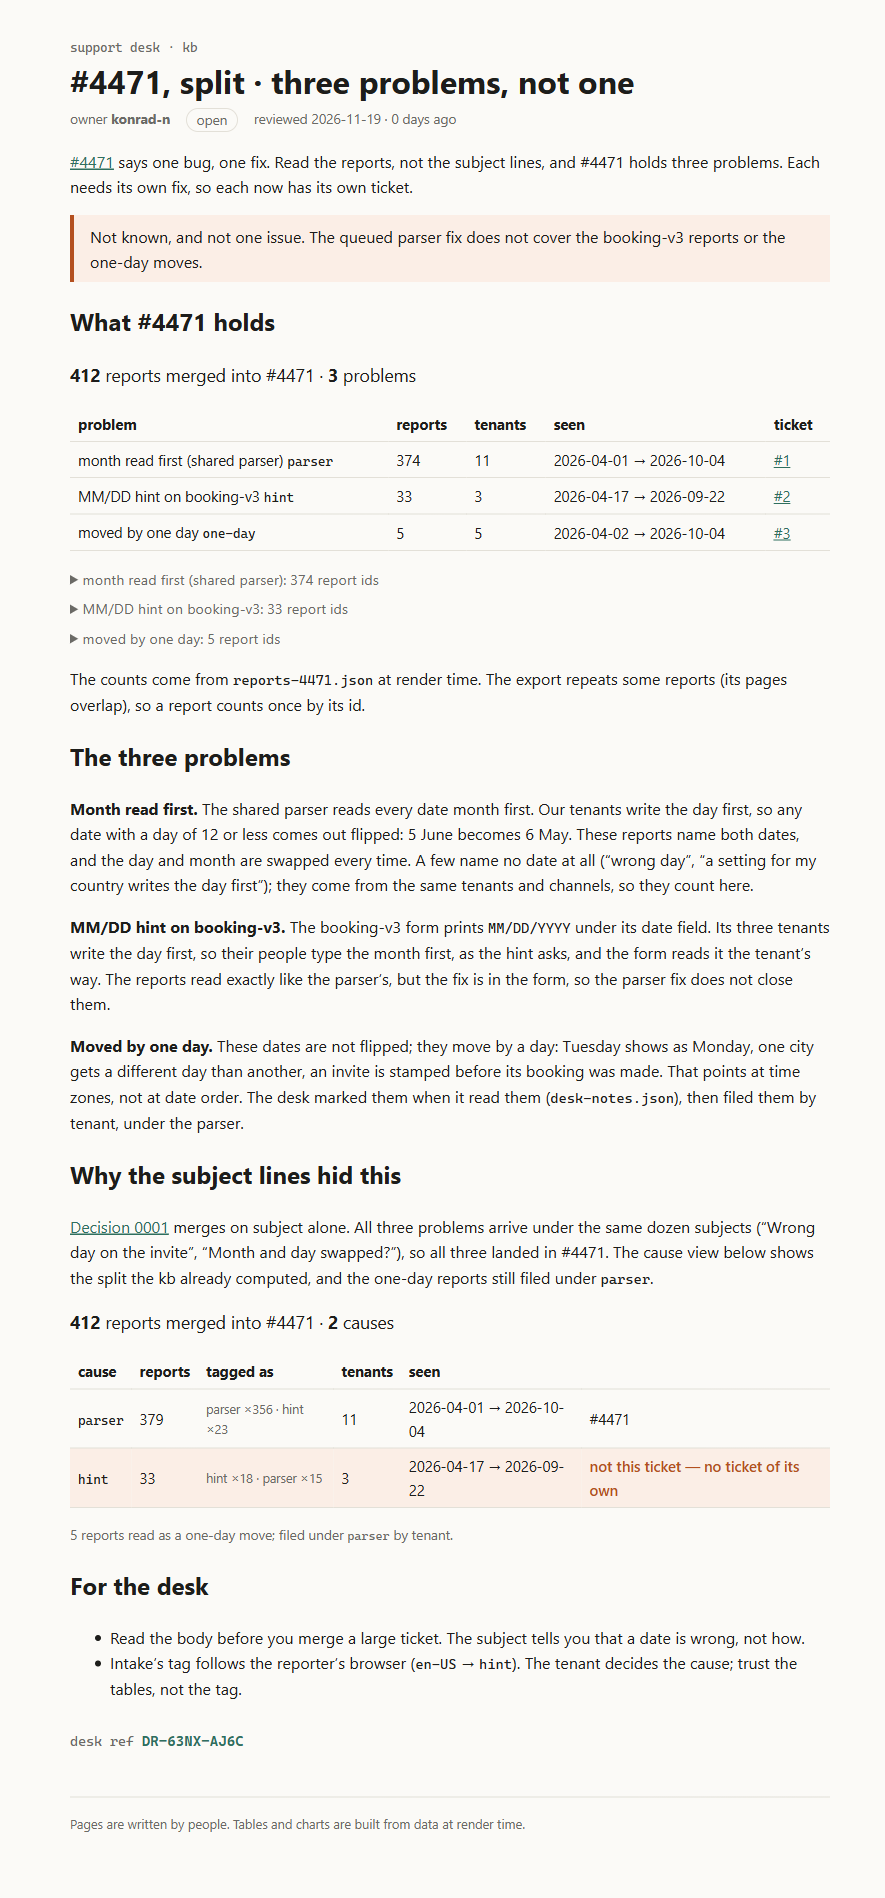
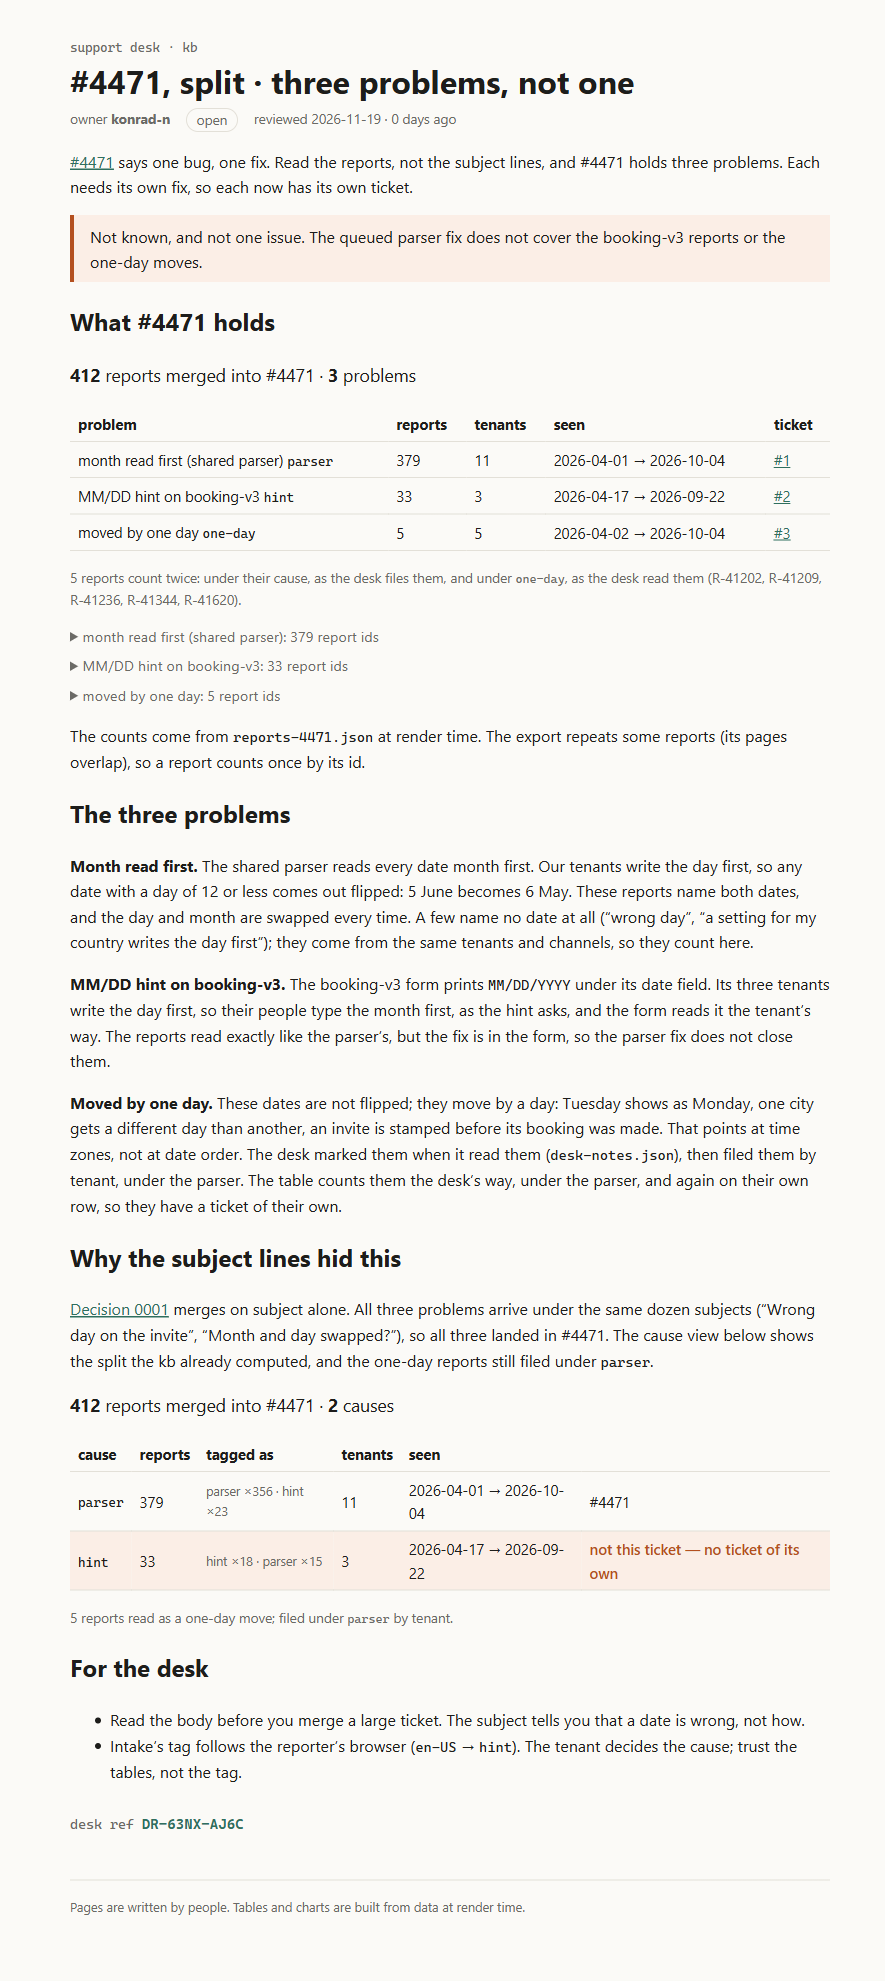
Count the #4471 split the desk's way: parser 379, one-day 5 also listed

diff --git a/rendered/kb/incidents/4471-split/index.html b/rendered/kb/incidents/4471-split/index.html
@@ -33,14 +33,15 @@
   aside.svelte-hdh0t2 { border-left: 4px solid var(--accent); padding: 0.5rem 1rem; margin: 1rem 0; background: var(--note-bg); }
   aside.warn.svelte-hdh0t2 { border-color: var(--warn); background: var(--warn-bg); }
 
[1 lines of base64/hex data omitted]
-  .sum.svelte-1swmch { font-size: 1.1rem; }
-  .none.svelte-1swmch { color: var(--warn); font-weight: 600; }
-  details.svelte-1swmch { margin: 0.4rem 0; }
-  summary.svelte-1swmch { cursor: pointer; color: var(--muted); font-size: 0.9rem; }
-  .ids.svelte-1swmch { font: 0.8rem/1.5 var(--mono); color: var(--muted); word-spacing: 0.3em; }
[1 lines of base64/hex data omitted]
+  .sum.svelte-2e3mxz { font-size: 1.1rem; }
+  .none.svelte-2e3mxz { color: var(--warn); font-weight: 600; }
+  .note.svelte-2e3mxz { color: var(--muted); font-size: 0.85em; }
+  details.svelte-2e3mxz { margin: 0.4rem 0; }
+  summary.svelte-2e3mxz { cursor: pointer; color: var(--muted); font-size: 0.9rem; }
+  .ids.svelte-2e3mxz { font: 0.8rem/1.5 var(--mono); color: var(--muted); word-spacing: 0.3em; }
 
[2 lines of base64/hex data omitted]
   .sum.svelte-5f1c7s { font-size: 1.1rem; }
   .tags.svelte-5f1c7s { color: var(--muted); font-size: 0.85em; }
   .note.svelte-5f1c7s { color: var(--muted); font-size: 0.85em; }
@@ -57,7 +58,7 @@
 <body>
 <!--[--><div class="kb svelte-60g32v"><header><a class="crumb svelte-60g32v" href="/kb">support desk · kb</a> <h1 class="svelte-60g32v">#4471, split · three problems, not one</h1> <p class="meta svelte-60g32v"><span>owner <b>konrad-n</b></span> <span class="status open svelte-60g32v">open</span> <span class="svelte-60g32v">reviewed 2026-11-19 · 0 days ago</span></p></header> <!--[!--><!--]--> <main><p><a href="/kb/incidents/4471">#4471</a> says one bug, one fix. Read the reports, not the subject lines, and
 #4471 holds three problems. Each needs its own fix, so each now has its own ticket.</p> <aside class="warn svelte-hdh0t2"><!---->Not known, and not one issue. The queued parser fix does not cover the booking-v3 reports or
-the one-day moves.<!----></aside><!----> <h2>What #4471 holds</h2> <p class="sum svelte-1swmch"><strong>412</strong> reports merged into #4471 · <strong>3</strong> problems</p> <table><thead><tr><th>problem</th><th>reports</th><th>tenants</th><th>seen</th><th>ticket</th></tr></thead><tbody><!--[--><tr><td>month read first (shared parser) <code>parser</code></td><td>374</td><td>11</td><td>2026-04-01 → 2026-10-04</td><td><!--[--><a href="https://github.com/konrad-n/kb-4471-split/issues/1">#1</a><!--]--></td></tr><tr><td>MM/DD hint on booking-v3 <code>hint</code></td><td>33</td><td>3</td><td>2026-04-17 → 2026-09-22</td><td><!--[--><a href="https://github.com/konrad-n/kb-4471-split/issues/2">#2</a><!--]--></td></tr><tr><td>moved by one day <code>one-day</code></td><td>5</td><td>5</td><td>2026-04-02 → 2026-10-04</td><td><!--[--><a href="https://github.com/konrad-n/kb-4471-split/issues/3">#3</a><!--]--></td></tr><!--]--></tbody></table> <!--[--><details class="svelte-1swmch"><summary class="svelte-1swmch">month read first (shared parser): 374 report ids</summary> <p class="ids svelte-1swmch">R-41200 R-41201 R-41203 R-41204 R-41205 R-41206 R-41208 R-41210 R-41211 R-41212 R-41213 R-41214 R-41215 R-41216 R-41217 R-41218 R-41219 R-41220 R-41221 R-41222 R-41223 R-41224 R-41225 R-41227 R-41228 R-41229 R-41231 R-41232 R-41233 R-41234 R-41235 R-41237 R-41238 R-41239 R-41240 R-41242 R-41243 R-41244 R-41245 R-41246 R-41247 R-41248 R-41249 R-41250 R-41252 R-41253 R-41254 R-41255 R-41256 R-41257 R-41258 R-41260 R-41261 R-41263 R-41264 R-41265 R-41266 R-41267 R-41268 R-41269 R-41270 R-41271 R-41272 R-41273 R-41274 R-41276 R-41277 R-41278 R-41279 R-41280 R-41281 R-41282 R-41283 R-41284 R-41285 R-41286 R-41287 R-41288 R-41289 R-41290 R-41291 R-41292 R-41293 R-41295 R-41296 R-41297 R-41298 R-41299 R-41300 R-41301 R-41302 R-41303 R-41304 R-41306 R-41309 R-41310 R-41311 R-41312 R-41313 R-41314 R-41315 R-41316 R-41317 R-41318 R-41319 R-41320 R-41321 R-41322 R-41323 R-41324 R-41325 R-41327 R-41328 R-41329 R-41330 R-41331 R-41332 R-41333 R-41334 R-41335 R-41336 R-41337 R-41338 R-41339 R-41340 R-41341 R-41342 R-41343 R-41345 R-41346 R-41347 R-41348 R-41349 R-41350 R-41351 R-41352 R-41353 R-41354 R-41355 R-41356 R-41357 R-41358 R-41359 R-41360 R-41361 R-41362 R-41363 R-41364 R-41365 R-41367 R-41368 R-41369 R-41370 R-41371 R-41373 R-41374 R-41375 R-41376 R-41377 R-41378 R-41379 R-41380 R-41381 R-41382 R-41383 R-41385 R-41386 R-41388 R-41389 R-41390 R-41391 R-41392 R-41393 R-41394 R-41395 R-41397 R-41398 R-41399 R-41401 R-41402 R-41403 R-41404 R-41405 R-41408 R-41409 R-41410 R-41411 R-41412 R-41413 R-41414 R-41417 R-41419 R-41420 R-41421 R-41422 R-41423 R-41424 R-41425 R-41427 R-41429 R-41430 R-41431 R-41432 R-41433 R-41434 R-41435 R-41436 R-41437 R-41438 R-41440 R-41442 R-41443 R-41444 R-41445 R-41446 R-41447 R-41448 R-41450 R-41451 R-41452 R-41454 R-41455 R-41457 R-41458 R-41459 R-41461 R-41462 R-41463 R-41464 R-41465 R-41466 R-41467 R-41468 R-41469 R-41470 R-41471 R-41473 R-41474 R-41475 R-41476 R-41477 R-41478 R-41479 R-41480 R-41481 R-41482 R-41483 R-41484 R-41486 R-41487 R-41488 R-41489 R-41490 R-41491 R-41492 R-41494 R-41495 R-41496 R-41497 R-41498 R-41499 R-41500 R-41501 R-41502 R-41503 R-41504 R-41505 R-41506 R-41508 R-41509 R-41510 R-41511 R-41512 R-41513 R-41514 R-41515 R-41516 R-41517 R-41518 R-41519 R-41520 R-41521 R-41522 R-41523 R-41524 R-41525 R-41527 R-41528 R-41529 R-41530 R-41531 R-41532 R-41533 R-41534 R-41535 R-41536 R-41537 R-41538 R-41540 R-41541 R-41542 R-41543 R-41544 R-41545 R-41546 R-41547 R-41548 R-41549 R-41550 R-41551 R-41552 R-41553 R-41554 R-41555 R-41556 R-41557 R-41558 R-41559 R-41560 R-41561 R-41562 R-41563 R-41564 R-41565 R-41566 R-41567 R-41568 R-41569 R-41570 R-41571 R-41573 R-41574 R-41575 R-41576 R-41577 R-41578 R-41579 R-41580 R-41581 R-41583 R-41585 R-41586 R-41587 R-41588 R-41589 R-41590 R-41591 R-41592 R-41593 R-41594 R-41595 R-41596 R-41597 R-41598 R-41599 R-41600 R-41601 R-41602 R-41603 R-41604 R-41605 R-41606 R-41608 R-41609 R-41610 R-41611 R-41612 R-41613 R-41614 R-41615 R-41616 R-41617 R-41618 R-41619</p></details><details class="svelte-1swmch"><summary class="svelte-1swmch">MM/DD hint on booking-v3: 33 report ids</summary> <p class="ids svelte-1swmch">R-41230 R-41241 R-41251 R-41259 R-41262 R-41275 R-41294 R-41305 R-41308 R-41366 R-41372 R-41384 R-41387 R-41396 R-41400 R-41406 R-41415 R-41416 R-41418 R-41428 R-41439 R-41441 R-41449 R-41453 R-41456 R-41460 R-41472 R-41485 R-41493 R-41539 R-41572 R-41582 R-41584</p></details><details class="svelte-1swmch"><summary class="svelte-1swmch">moved by one day: 5 report ids</summary> <p class="ids svelte-1swmch">R-41202 R-41209 R-41236 R-41344 R-41620</p></details><!--]--><!----> <p>The counts come from <code>reports-4471.json</code> at render time. The export repeats some reports (its
+the one-day moves.<!----></aside><!----> <h2>What #4471 holds</h2> <p class="sum svelte-2e3mxz"><strong>412</strong> reports merged into #4471 · <strong>3</strong> problems</p> <table><thead><tr><th>problem</th><th>reports</th><th>tenants</th><th>seen</th><th>ticket</th></tr></thead><tbody><!--[--><tr><td>month read first (shared parser) <code>parser</code></td><td>379</td><td>11</td><td>2026-04-01 → 2026-10-04</td><td><!--[--><a href="https://github.com/konrad-n/kb-4471-split/issues/1">#1</a><!--]--></td></tr><tr><td>MM/DD hint on booking-v3 <code>hint</code></td><td>33</td><td>3</td><td>2026-04-17 → 2026-09-22</td><td><!--[--><a href="https://github.com/konrad-n/kb-4471-split/issues/2">#2</a><!--]--></td></tr><tr><td>moved by one day <code>one-day</code></td><td>5</td><td>5</td><td>2026-04-02 → 2026-10-04</td><td><!--[--><a href="https://github.com/konrad-n/kb-4471-split/issues/3">#3</a><!--]--></td></tr><!--]--></tbody></table> <!--[--><p class="note svelte-2e3mxz">5 reports count twice: under their cause, as the desk files them, and under <code>one-day</code>, as the desk read them (R-41202, R-41209, R-41236, R-41344, R-41620).</p><!--]--> <!--[--><details class="svelte-2e3mxz"><summary class="svelte-2e3mxz">month read first (shared parser): 379 report ids</summary> <p class="ids svelte-2e3mxz">R-41200 R-41201 R-41202 R-41203 R-41204 R-41205 R-41206 R-41208 R-41209 R-41210 R-41211 R-41212 R-41213 R-41214 R-41215 R-41216 R-41217 R-41218 R-41219 R-41220 R-41221 R-41222 R-41223 R-41224 R-41225 R-41227 R-41228 R-41229 R-41231 R-41232 R-41233 R-41234 R-41235 R-41236 R-41237 R-41238 R-41239 R-41240 R-41242 R-41243 R-41244 R-41245 R-41246 R-41247 R-41248 R-41249 R-41250 R-41252 R-41253 R-41254 R-41255 R-41256 R-41257 R-41258 R-41260 R-41261 R-41263 R-41264 R-41265 R-41266 R-41267 R-41268 R-41269 R-41270 R-41271 R-41272 R-41273 R-41274 R-41276 R-41277 R-41278 R-41279 R-41280 R-41281 R-41282 R-41283 R-41284 R-41285 R-41286 R-41287 R-41288 R-41289 R-41290 R-41291 R-41292 R-41293 R-41295 R-41296 R-41297 R-41298 R-41299 R-41300 R-41301 R-41302 R-41303 R-41304 R-41306 R-41309 R-41310 R-41311 R-41312 R-41313 R-41314 R-41315 R-41316 R-41317 R-41318 R-41319 R-41320 R-41321 R-41322 R-41323 R-41324 R-41325 R-41327 R-41328 R-41329 R-41330 R-41331 R-41332 R-41333 R-41334 R-41335 R-41336 R-41337 R-41338 R-41339 R-41340 R-41341 R-41342 R-41343 R-41344 R-41345 R-41346 R-41347 R-41348 R-41349 R-41350 R-41351 R-41352 R-41353 R-41354 R-41355 R-41356 R-41357 R-41358 R-41359 R-41360 R-41361 R-41362 R-41363 R-41364 R-41365 R-41367 R-41368 R-41369 R-41370 R-41371 R-41373 R-41374 R-41375 R-41376 R-41377 R-41378 R-41379 R-41380 R-41381 R-41382 R-41383 R-41385 R-41386 R-41388 R-41389 R-41390 R-41391 R-41392 R-41393 R-41394 R-41395 R-41397 R-41398 R-41399 R-41401 R-41402 R-41403 R-41404 R-41405 R-41408 R-41409 R-41410 R-41411 R-41412 R-41413 R-41414 R-41417 R-41419 R-41420 R-41421 R-41422 R-41423 R-41424 R-41425 R-41427 R-41429 R-41430 R-41431 R-41432 R-41433 R-41434 R-41435 R-41436 R-41437 R-41438 R-41440 R-41442 R-41443 R-41444 R-41445 R-41446 R-41447 R-41448 R-41450 R-41451 R-41452 R-41454 R-41455 R-41457 R-41458 R-41459 R-41461 R-41462 R-41463 R-41464 R-41465 R-41466 R-41467 R-41468 R-41469 R-41470 R-41471 R-41473 R-41474 R-41475 R-41476 R-41477 R-41478 R-41479 R-41480 R-41481 R-41482 R-41483 R-41484 R-41486 R-41487 R-41488 R-41489 R-41490 R-41491 R-41492 R-41494 R-41495 R-41496 R-41497 R-41498 R-41499 R-41500 R-41501 R-41502 R-41503 R-41504 R-41505 R-41506 R-41508 R-41509 R-41510 R-41511 R-41512 R-41513 R-41514 R-41515 R-41516 R-41517 R-41518 R-41519 R-41520 R-41521 R-41522 R-41523 R-41524 R-41525 R-41527 R-41528 R-41529 R-41530 R-41531 R-41532 R-41533 R-41534 R-41535 R-41536 R-41537 R-41538 R-41540 R-41541 R-41542 R-41543 R-41544 R-41545 R-41546 R-41547 R-41548 R-41549 R-41550 R-41551 R-41552 R-41553 R-41554 R-41555 R-41556 R-41557 R-41558 R-41559 R-41560 R-41561 R-41562 R-41563 R-41564 R-41565 R-41566 R-41567 R-41568 R-41569 R-41570 R-41571 R-41573 R-41574 R-41575 R-41576 R-41577 R-41578 R-41579 R-41580 R-41581 R-41583 R-41585 R-41586 R-41587 R-41588 R-41589 R-41590 R-41591 R-41592 R-41593 R-41594 R-41595 R-41596 R-41597 R-41598 R-41599 R-41600 R-41601 R-41602 R-41603 R-41604 R-41605 R-41606 R-41608 R-41609 R-41610 R-41611 R-41612 R-41613 R-41614 R-41615 R-41616 R-41617 R-41618 R-41619 R-41620</p></details><details class="svelte-2e3mxz"><summary class="svelte-2e3mxz">MM/DD hint on booking-v3: 33 report ids</summary> <p class="ids svelte-2e3mxz">R-41230 R-41241 R-41251 R-41259 R-41262 R-41275 R-41294 R-41305 R-41308 R-41366 R-41372 R-41384 R-41387 R-41396 R-41400 R-41406 R-41415 R-41416 R-41418 R-41428 R-41439 R-41441 R-41449 R-41453 R-41456 R-41460 R-41472 R-41485 R-41493 R-41539 R-41572 R-41582 R-41584</p></details><details class="svelte-2e3mxz"><summary class="svelte-2e3mxz">moved by one day: 5 report ids</summary> <p class="ids svelte-2e3mxz">R-41202 R-41209 R-41236 R-41344 R-41620</p></details><!--]--><!----> <p>The counts come from <code>reports-4471.json</code> at render time. The export repeats some reports (its
 pages overlap), so a report counts once by its id.</p> <h2>The three problems</h2> <p><strong>Month read first.</strong> The shared parser reads every date month first. Our tenants write the
 day first, so any date with a day of 12 or less comes out flipped: 5 June becomes 6 May. These
 reports name both dates, and the day and month are swapped every time. A few name no date at
@@ -68,7 +69,8 @@ and the form reads it the tenant’s way. The reports read exactly like the pars
 is in the form, so the parser fix does not close them.</p> <p><strong>Moved by one day.</strong> These dates are not flipped; they move by a day: Tuesday shows as Monday,
 one city gets a different day than another, an invite is stamped before its booking was made.
 That points at time zones, not at date order. The desk marked them when it read them
-(<code>desk-notes.json</code>), then filed them by tenant, under the parser.</p> <h2>Why the subject lines hid this</h2> <p><a href="/kb/decisions/0001-dedupe-by-subject">Decision 0001</a> merges on subject alone. All three
+(<code>desk-notes.json</code>), then filed them by tenant, under the parser. The table counts them the
+desk’s way, under the parser, and again on their own row, so they have a ticket of their own.</p> <h2>Why the subject lines hid this</h2> <p><a href="/kb/decisions/0001-dedupe-by-subject">Decision 0001</a> merges on subject alone. All three
 problems arrive under the same dozen subjects (“Wrong day on the invite”, “Month and day
 swapped?”), so all three landed in #4471. The cause view below shows the split the kb already
 computed, and the one-day reports still filed under <code>parser</code>.</p> <p class="sum svelte-5f1c7s"><strong>412</strong> reports merged into #4471 · <strong>2</strong> causes</p> <table><thead><tr><th>cause</th><th>reports</th><th>tagged as</th><th>tenants</th><th>seen</th><th></th></tr></thead><tbody><!--[--><tr class="svelte-5f1c7s"><td class="svelte-5f1c7s"><code>parser</code></td><td class="svelte-5f1c7s">379</td><td class="tags svelte-5f1c7s">parser ×356 · hint ×23</td><td class="svelte-5f1c7s">11</td><td class="svelte-5f1c7s">2026-04-01 → 2026-10-04</td><td class="svelte-5f1c7s">#4471</td></tr><tr class="svelte-5f1c7s wrong"><td class="svelte-5f1c7s"><code>hint</code></td><td class="svelte-5f1c7s">33</td><td class="tags svelte-5f1c7s">hint ×18 · parser ×15</td><td class="svelte-5f1c7s">3</td><td class="svelte-5f1c7s">2026-04-17 → 2026-09-22</td><td class="svelte-5f1c7s">not this ticket — no ticket of its own</td></tr><!--]--></tbody></table> <!--[--><!--[--><p class="note svelte-5f1c7s">5 reports read as a one-day move; filed under <code>parser</code> by tenant.</p><!--]--><!--[!--><!--]--><!--]--><!----> <h2>For the desk</h2> <ul><li>Read the body before you merge a large ticket. The subject tells you that a date is wrong,

diff --git a/src/lib/kb/problems.ts b/src/lib/kb/problems.ts
@@ -1,9 +1,10 @@
 // The problems inside one merged ticket. Pages explain them; this file is what runs.
 //
-// causes.ts splits a ticket by tenant and booking form (parser / hint). It cannot see a report
-// that describes a different symptom: a date that moved by one day is not a flipped month, even
-// when the tenant writes the day first. The desk already marks those (desk-notes.json,
-// `oneDayMove`). Here they leave the cause groups and become a problem of their own.
+// causes.ts splits a ticket by tenant and booking form (parser / hint): the desk's own view, and
+// the counts its tickets use. It cannot see a report that describes a different symptom: a date
+// that moved by one day is not a flipped month, even when the tenant writes the day first. The
+// desk already marks those (desk-notes.json, `oneDayMove`). Here they become a problem of their
+// own, and stay counted in their cause group too, as the desk counts them.
 import { causeOf, uniqueById, type Report, type Tenant } from '#lib/kb/causes';
 
 export type ProblemKey = 'parser' | 'hint' | 'one-day' | 'unplaced';
@@ -20,9 +21,11 @@ export type Problem = {
 // The order a reader meets them in: biggest first, `unplaced` last.
 const ORDER: ProblemKey[] = ['parser', 'hint', 'one-day', 'unplaced'];
 
-export function problemOf(r: Report, t: Tenant | undefined, oneDayMove: readonly string[]): ProblemKey {
-  if (oneDayMove.includes(r.id)) return 'one-day';
-  return causeOf(r, t) ?? 'unplaced';
+// A report can sit in two problems: its cause, and `one-day` when the desk read it as a one-day move.
+export function problemsOf(r: Report, t: Tenant | undefined, oneDayMove: readonly string[]): ProblemKey[] {
+  const keys: ProblemKey[] = [causeOf(r, t) ?? 'unplaced'];
+  if (oneDayMove.includes(r.id)) keys.push('one-day');
+  return keys;
 }
 
 export function splitTicket(
@@ -30,12 +33,14 @@ export function splitTicket(
   ticket: number,
   tenantOf: (r: Report) => Tenant | undefined,
   oneDayMove: readonly string[],
-): { merged: number; problems: Problem[] } {
+): { merged: number; overlap: string[]; problems: Problem[] } {
   const merged = uniqueById(all).filter((r) => r.mergedInto === ticket);
   const by = new Map<ProblemKey, Report[]>();
+  const overlap: string[] = [];
   for (const r of merged) {
-    const k = problemOf(r, tenantOf(r), oneDayMove);
-    by.set(k, [...(by.get(k) ?? []), r]);
+    const keys = problemsOf(r, tenantOf(r), oneDayMove);
+    if (keys.length > 1) overlap.push(r.id);
+    for (const k of keys) by.set(k, [...(by.get(k) ?? []), r]);
   }
   const problems = ORDER.filter((k) => by.has(k)).map((key) => {
     const reports = by.get(key)!;
@@ -49,5 +54,5 @@ export function splitTicket(
       lastSeen: days[days.length - 1],
     };
   });
-  return { merged: merged.length, problems };
+  return { merged: merged.length, overlap: overlap.sort(), problems };
 }

diff --git a/src/lib/kb/ProblemTable.svelte b/src/lib/kb/ProblemTable.svelte
@@ -44,6 +44,13 @@
   </tbody>
 </table>
 
+{#if split.overlap.length}
+  <p class="note">
+    {split.overlap.length} reports count twice: under their cause, as the desk files them, and under
+    <code>one-day</code>, as the desk read them ({split.overlap.join(', ')}).
+  </p>
+{/if}
+
 {#each split.problems as p (p.key)}
   <details>
     <summary>{LABEL[p.key]}: {p.ids.length} report ids</summary>
@@ -54,6 +61,7 @@
 <style>
   .sum { font-size: 1.1rem; }
   .none { color: var(--warn); font-weight: 600; }
+  .note { color: var(--muted); font-size: 0.85em; }
   details { margin: 0.4rem 0; }
   summary { cursor: pointer; color: var(--muted); font-size: 0.9rem; }
   .ids { font: 0.8rem/1.5 var(--mono); color: var(--muted); word-spacing: 0.3em; }
